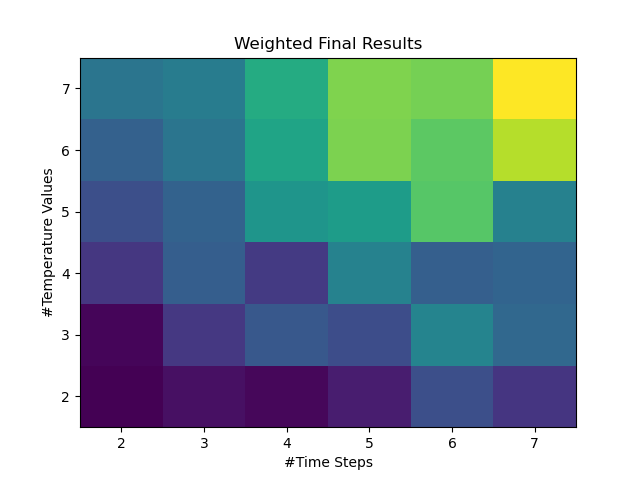
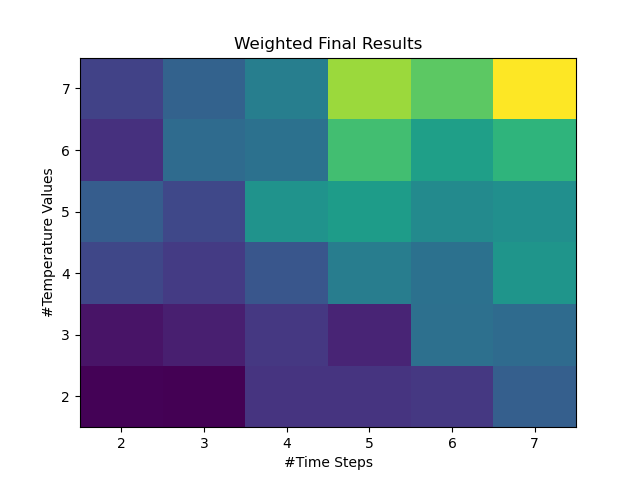
abstract determinant to general observable, give description to sorting results and fischer entries, increase parallel processing.

diff --git a/pool_model.py b/pool_model.py
@@ -75,14 +75,16 @@ def convert_S_matrix_to_determinant(S):
     return det
 
 
-def calculate_Fischer_determinant(combinations, ODE_func, Y0, jacobian):
+def calculate_Fischer_determinant(combinations, ODE_func, Y0, jacobian, observable):
     sample_times, Q_arr, P, Const = combinations
     S = get_S_matrix(ODE_func, Y0, sample_times, Q_arr, P, Const, jacobian)
-    det = convert_S_matrix_to_determinant(S)
-    return det, sample_times, P, Q_arr, Const, Y0
+    obs = observable(S)
+    return obs, sample_times, P, Q_arr, Const, Y0
 
 
 def sorting_key(x):
+    '''Contents of x are typically results of calculate_Fischer_determinant (see above)
+    Thus x = (obs, sample_times, P, Q_arr, Const, Y0)'''
     norm = max(len(x[2]) * x[1].size * np.prod([len(x) for x in x[3]]), 1.0)
     return x[0]/norm
 
@@ -138,7 +140,6 @@ if __name__ == "__main__":
 
     # How often should we choose a sample with same number of temperatures and times
     N_mult = 10
-
     # How many optimization runs should we do
     N_opt = 20
     # How many best results should be propagated forward?
@@ -146,7 +147,7 @@ if __name__ == "__main__":
     # How many new combinations should an old result spawn?
     N_spawn = 10
     # How many processes will be run in parallel
-    N_parallel = 40
+    N_parallel = 44
 
     # Begin sampling of time and temperature values
     combinations = []
@@ -169,7 +170,9 @@ if __name__ == "__main__":
         print(print_line.format(time.time()-start_time, opt_run+1), end="\r")
         # Calculate new results
         p = mp.Pool(N_parallel)
-        fischer_results = p.starmap(calculate_Fischer_determinant, zip(combinations, iter.repeat(pool_model), iter.repeat(n0), iter.repeat(jacobi)))
+        # fischer_results will have entries of the form
+        # (obs, sample_times, P, Q_arr, Const, Y0)
+        fischer_results = p.starmap(calculate_Fischer_determinant, zip(combinations, iter.repeat(pool_model), iter.repeat(n0), iter.repeat(jacobi), iter.repeat(convert_S_matrix_to_determinant)))
 
         # Do not optimize further if we are in the last run
         if opt_run != N_opt-1:
